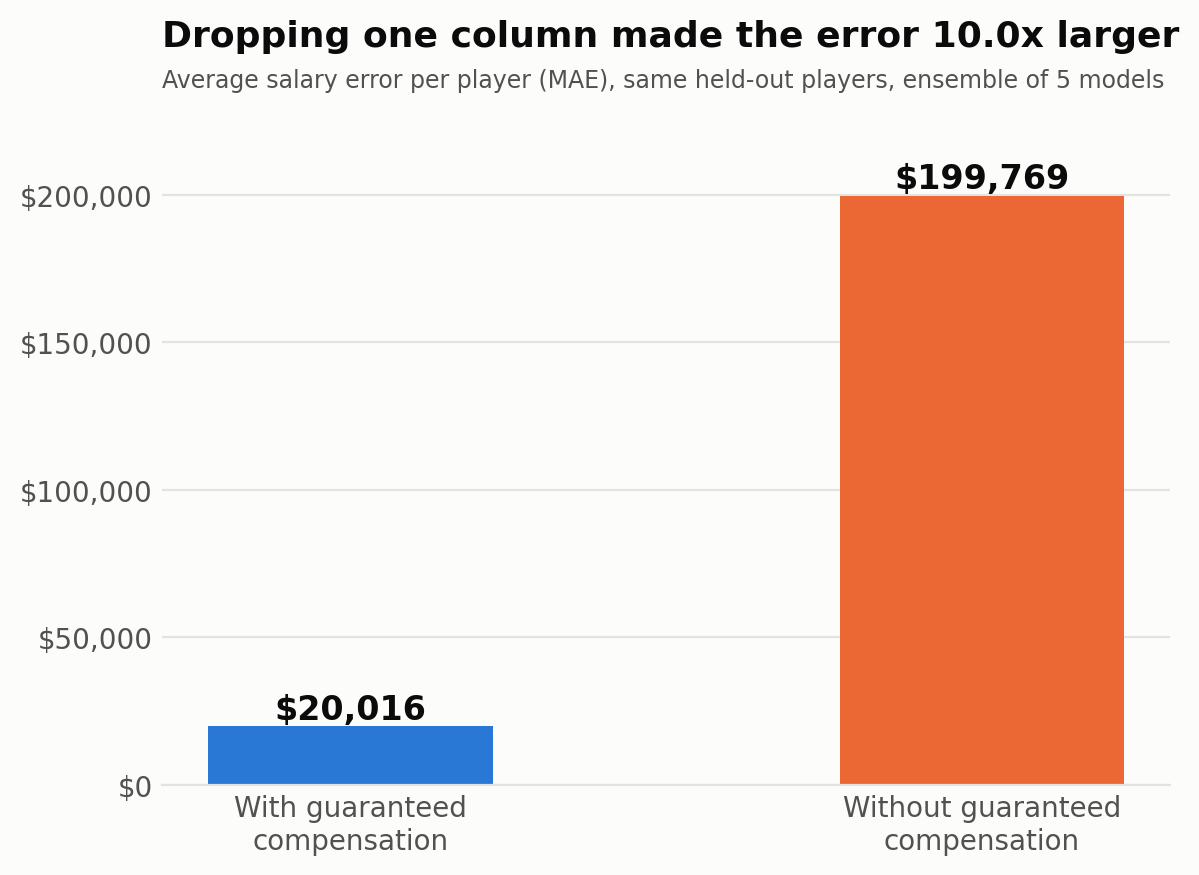
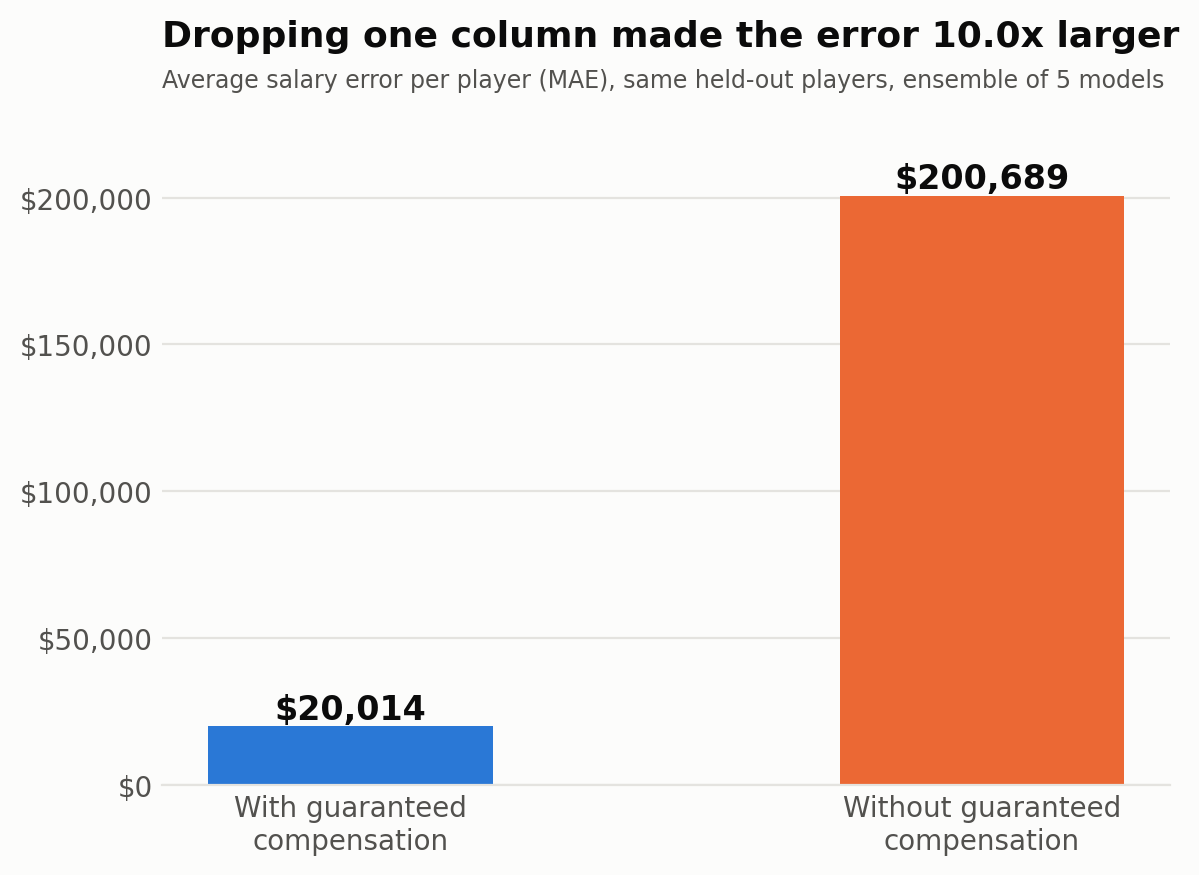
Fix README numbers to match the current code outputs
- Ensemble MAE: $20,014 / $200,689 (was $20,016 / $199,769); chart
  regenerated to match
- Meta neural network R²: 0.21 (0.2055; was 0.20)
- Biggest misses now all from the Random Forest, the numbers the
  script prints: van Dijk ~$5.8M, Sterling ~$1.6M, Mets ~$8.4M

diff --git a/README.md b/README.md
@@ -24,7 +24,7 @@ So I took the column out.
 
 > **My model wasn't learning who was good. It was learning who already got paid.**
 
-![Bar chart: the same five-model ensemble is off by $20,016 per player with guaranteed compensation and $199,769 without it, about 10 times more](leakage_comparison.png)
+![Bar chart: the same five-model ensemble is off by $20,014 per player with guaranteed compensation and $200,689 without it, about 10 times more](leakage_comparison.png)
 
 On the same held-out players, the ensemble of five models is off by about **$20,000** per player with `guaranteed_compensation` and about **$200,000** without it. That's **10x** the error. Its R² goes from **0.99 to -0.06**, which means that without the column it predicts base salary no better than guessing the average. Random Forest's test MSE went from about 1.8 billion to about 449 billion.
 
@@ -51,9 +51,9 @@ Two things came out of this:
 
 To test this properly, I built a second model that predicts salary **only** from on-field stats (minutes, goals, assists, xG, xAG, progressive carries/passes/receptions) on a dataset of players from Europe's big leagues (plus MLS).
 
-It got much worse, and that's the honest result. On players it hasn't seen, my best single model (Random Forest) is off by about **$2.4 million** per player on average (test MSE about 1.3 × 10¹³, which is a typical miss of about $3.6M). The stacked models explain about **20%** of the variation in salary (R² 0.20 for the meta neural network). Stats alone don't explain pay.
+It got much worse, and that's the honest result. On players it hasn't seen, my best single model (Random Forest) is off by about **$2.4 million** per player on average (test MSE about 1.3 × 10¹³, which is a typical miss of about $3.6M). The stacked models explain about **20%** of the variation in salary (R² 0.21 for the meta neural network). Stats alone don't explain pay.
 
-The biggest misses are fun, though. The model thought Virgil van Dijk (paid about $24.7M in the data) should be making about $5M, and it thought Raheem Sterling (about $22.1M) should be making under $3M. In the other direction, it expected $6.6M or more for Karol Mets, who is paid about $760K. Some of that is probably the model being wrong (stats like these say little about defending), and some may be real gaps between pay and production. I can't tell which yet, and I think that's the actual research question.
+The biggest misses are fun, though. My best single model (Random Forest) thought Virgil van Dijk (paid about $24.7M in the data) should be making about $5.8M, and it thought Raheem Sterling (about $22.1M) should be making about $1.6M. In the other direction, it expected about $8.4M for Karol Mets, who is paid about $760K. Some of that is probably the model being wrong (stats like these say little about defending), and some may be real gaps between pay and production. I can't tell which yet, and I think that's the actual research question.
 
 ## Project 3: scoring players without using salary
 
@@ -146,7 +146,7 @@ pytest
 An earlier version of this project had problems that I found and fixed:
 - **The with/without comparison used different test players.** One run had no fixed seed and the other used `random_state=42`. Now both use the same split.
 - **Players appeared in both training and testing.** See "Testing my own test." Both projects now split by player.
-- **The meta neural network predicted salaries of about $100.** Its inputs were scaled but its target (salaries in the millions) was not. It now scales the target too, and it scores hyperparameters with cross-validation, not on the data it trained on. It now has a test MAE of about $2.4M and R² of 0.20, in line with the other models.
+- **The meta neural network predicted salaries of about $100.** Its inputs were scaled but its target (salaries in the millions) was not. It now scales the target too, and it scores hyperparameters with cross-validation, not on the data it trained on. It now has a test MAE of about $2.4M and R² of 0.21, in line with the other models.
 - **Percent error gave misleading rankings.** It explodes for cheap players and rewarded a model that predicted near zero. Comparisons now use MAE, RMSE, MSE and R², in dollars.
 - **Notebook cells had been run out of order.** Both notebooks now run cleanly top to bottom.
 
